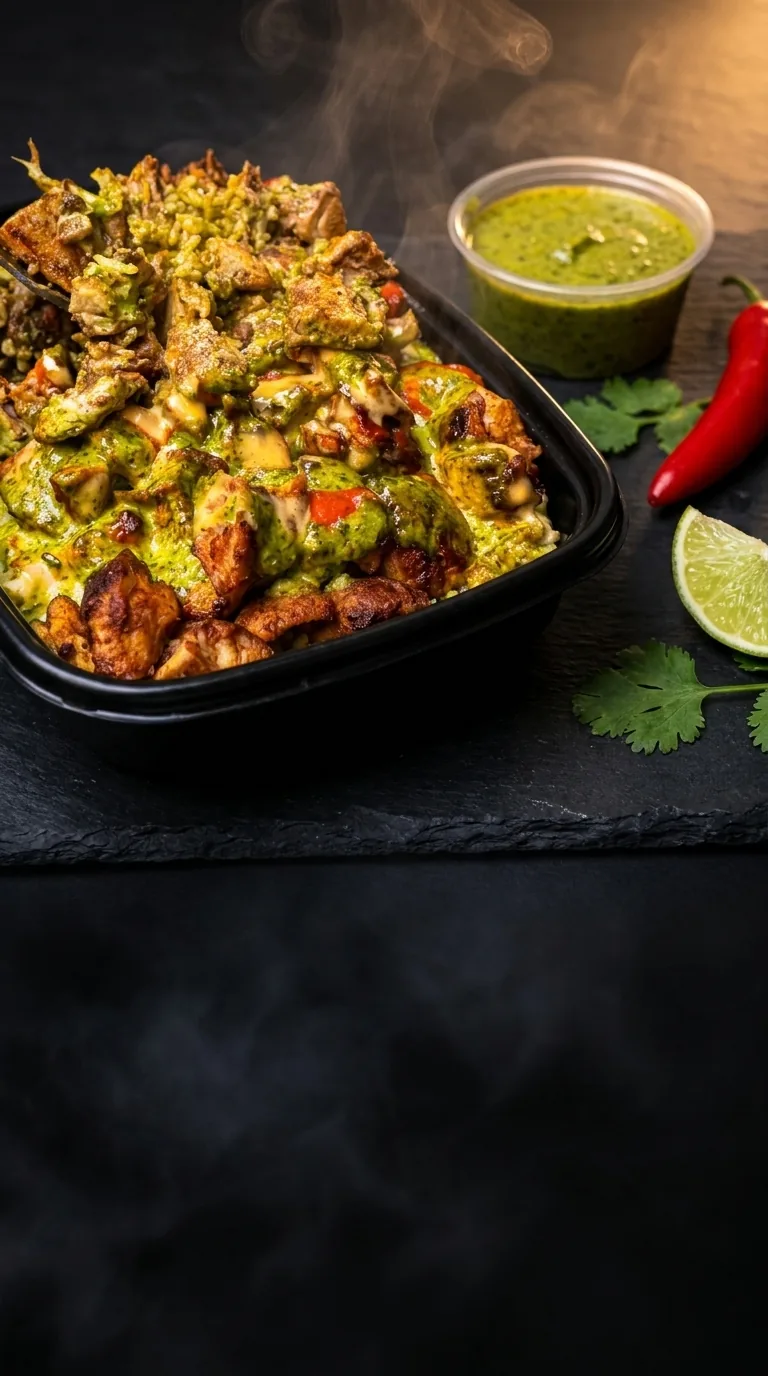
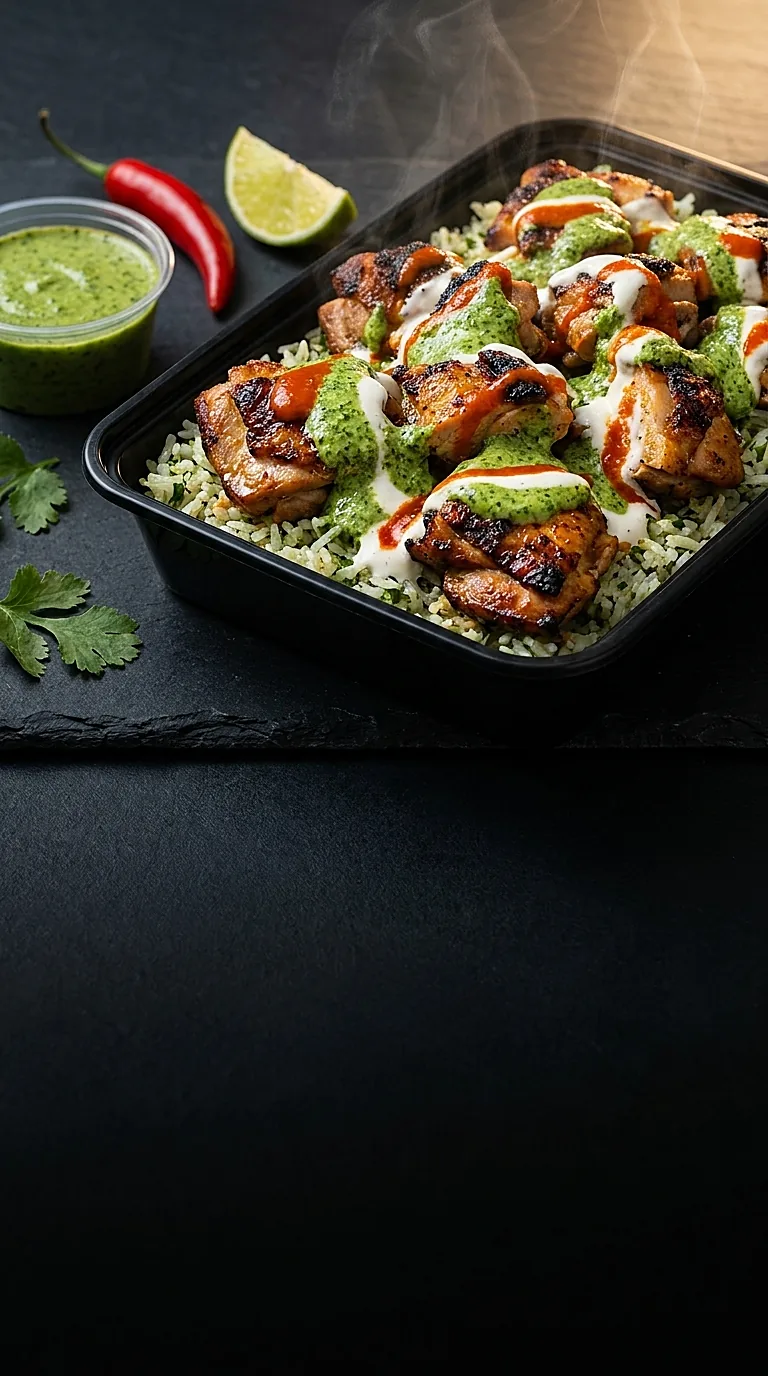
Hero chicken now actually looks flame-grilled
Sifat circled the hero and said 'and its not even flame grilled'. He was
right. The generated chicken was pale and uniformly sauced with no char
anywhere, while the line directly under it claims flame-grilled chicken.
Held it against his real photos and the actual food has deep browned
crispy caramelised edges that the generation had washed out.

Regenerated the wide, mobile and featured-card shots with the char
explicit in the prompt and a negative prompt against the pale steamed
look. First attempt overcorrected into blackened and under-sauced, which
broke the other half of the promise, so the shipped version holds both:
visible char marks and crispy edges, still properly drenched in green,
white and red.

diff --git a/site/index.html b/site/index.html
@@ -30,8 +30,8 @@
 <link rel="preconnect" href="https://fonts.googleapis.com">
 <link rel="preconnect" href="https://fonts.gstatic.com" crossorigin>
 <link href="https://fonts.googleapis.com/css2?family=Chango&family=Caveat+Brush&family=Big+Shoulders+Display:wght@600;700;800;900&family=Libre+Franklin:ital,wght@0,400;0,500;0,600;0,700;1,400&display=swap" rel="stylesheet">
-<link rel="preload" as="image" href="assets/img/hero-wide.webp" imagesrcset="assets/img/hero-mobile.webp?v=27 768w, assets/img/hero-wide-sm.webp?v=27 1500w, assets/img/hero-wide.webp?v=27 2560w" imagesizes="100vw" fetchpriority="high">
-<link rel="stylesheet" href="assets/css/style.css?v=27">
+<link rel="preload" as="image" href="assets/img/hero-wide.webp" imagesrcset="assets/img/hero-mobile.webp?v=28 768w, assets/img/hero-wide-sm.webp?v=28 1500w, assets/img/hero-wide.webp?v=28 2560w" imagesizes="100vw" fetchpriority="high">
+<link rel="stylesheet" href="assets/css/style.css?v=28">
 <script type="application/ld+json">
 {
   "@context": "https://schema.org",
@@ -202,9 +202,9 @@
   <!-- ============ HERO ============ -->
   <section class="hero" aria-labelledby="hero-title">
     <picture class="hero-bg">
-      <source media="(max-width: 700px)" srcset="assets/img/hero-mobile.webp?v=27">
-      <source media="(max-width: 1300px)" srcset="assets/img/hero-wide-sm.webp?v=27">
-      <img src="assets/img/hero-wide.webp?v=27" alt="Peruvian Street Kitchen spread: a rice box and loaded Cajun fries drenched in green aji verde sauce, with sauce pots, chillies and lime on dark slate" width="2560" height="1429" fetchpriority="high">
+      <source media="(max-width: 700px)" srcset="assets/img/hero-mobile.webp?v=28">
+      <source media="(max-width: 1300px)" srcset="assets/img/hero-wide-sm.webp?v=28">
+      <img src="assets/img/hero-wide.webp?v=28" alt="Peruvian Street Kitchen spread: a rice box and loaded Cajun fries drenched in green aji verde sauce, with sauce pots, chillies and lime on dark slate" width="2560" height="1429" fetchpriority="high">
     </picture>
     <div class="hero-smoke" aria-hidden="true"></div>
     <div class="hero-scrim" aria-hidden="true"></div>
@@ -659,6 +659,6 @@
   <a class="btn btn-ghost" href="https://www.ubereats.com/gb/store/peruvian-street-kitchen-g12-chadwell-heath-industrial-park-kemp-road/pXbf_ZSdWNG_N_mCPJYeJg" target="_blank" rel="noopener">Uber Eats</a>
 </div>
 
-<script src="assets/js/main.js?v=27" defer></script>
+<script src="assets/js/main.js?v=28" defer></script>
 </body>
 </html>

diff --git a/site/catering/index.html b/site/catering/index.html
@@ -30,7 +30,7 @@
 <link rel="preconnect" href="https://fonts.googleapis.com">
 <link rel="preconnect" href="https://fonts.gstatic.com" crossorigin>
 <link href="https://fonts.googleapis.com/css2?family=Chango&family=Caveat+Brush&family=Big+Shoulders+Display:wght@600;700;800;900&family=Libre+Franklin:ital,wght@0,400;0,500;0,600;0,700;1,400&display=swap" rel="stylesheet">
-<link rel="stylesheet" href="/assets/css/style.css?v=27">
+<link rel="stylesheet" href="/assets/css/style.css?v=28">
 </head>
 <body>
 <a class="skip-link" href="#builder">Skip to the order builder</a>
@@ -496,7 +496,7 @@
   </div>
 </footer>
 
-<script src="/assets/js/main.js?v=27" defer></script>
-<script src="/assets/js/catering.js?v=27" defer></script>
+<script src="/assets/js/main.js?v=28" defer></script>
+<script src="/assets/js/catering.js?v=28" defer></script>
 </body>
 </html>

diff --git a/site/contact/index.html b/site/contact/index.html
@@ -30,7 +30,7 @@
 <link rel="preconnect" href="https://fonts.googleapis.com">
 <link rel="preconnect" href="https://fonts.gstatic.com" crossorigin>
 <link href="https://fonts.googleapis.com/css2?family=Chango&family=Caveat+Brush&family=Big+Shoulders+Display:wght@600;700;800;900&family=Libre+Franklin:ital,wght@0,400;0,500;0,600;0,700;1,400&display=swap" rel="stylesheet">
-<link rel="stylesheet" href="/assets/css/style.css?v=27">
+<link rel="stylesheet" href="/assets/css/style.css?v=28">
 </head>
 <body>
 <a class="skip-link" href="#reach-us">Skip to contact details</a>
@@ -199,7 +199,7 @@
   </div>
 </footer>
 
-<script src="/assets/js/main.js?v=27" defer></script>
-<script src="/assets/js/contact.js?v=27" defer></script>
+<script src="/assets/js/main.js?v=28" defer></script>
+<script src="/assets/js/contact.js?v=28" defer></script>
 </body>
 </html>

diff --git a/site/donate/index.html b/site/donate/index.html
@@ -30,7 +30,7 @@
 <link rel="preconnect" href="https://fonts.googleapis.com">
 <link rel="preconnect" href="https://fonts.gstatic.com" crossorigin>
 <link href="https://fonts.googleapis.com/css2?family=Chango&family=Caveat+Brush&family=Big+Shoulders+Display:wght@600;700;800;900&family=Libre+Franklin:ital,wght@0,400;0,500;0,600;0,700;1,400&display=swap" rel="stylesheet">
-<link rel="stylesheet" href="/assets/css/style.css?v=27">
+<link rel="stylesheet" href="/assets/css/style.css?v=28">
 </head>
 <body>
 <a class="skip-link" href="#give">Skip to the donation</a>
@@ -208,7 +208,7 @@
   </div>
 </footer>
 
-<script src="/assets/js/main.js?v=27" defer></script>
-<script src="/assets/js/donate.js?v=27" defer></script>
+<script src="/assets/js/main.js?v=28" defer></script>
+<script src="/assets/js/donate.js?v=28" defer></script>
 </body>
 </html>

diff --git a/site/404.html b/site/404.html
@@ -12,7 +12,7 @@
 <link rel="preconnect" href="https://fonts.googleapis.com">
 <link rel="preconnect" href="https://fonts.gstatic.com" crossorigin>
 <link href="https://fonts.googleapis.com/css2?family=Chango&family=Caveat+Brush&family=Big+Shoulders+Display:wght@600;700;800;900&family=Libre+Franklin:ital,wght@0,400;0,500;0,600;0,700;1,400&display=swap" rel="stylesheet">
-<link rel="stylesheet" href="/assets/css/style.css?v=27">
+<link rel="stylesheet" href="/assets/css/style.css?v=28">
 </head>
 <body>
 
@@ -83,6 +83,6 @@
   </div>
 </footer>
 
-<script src="/assets/js/main.js?v=27" defer></script>
+<script src="/assets/js/main.js?v=28" defer></script>
 </body>
 </html>
